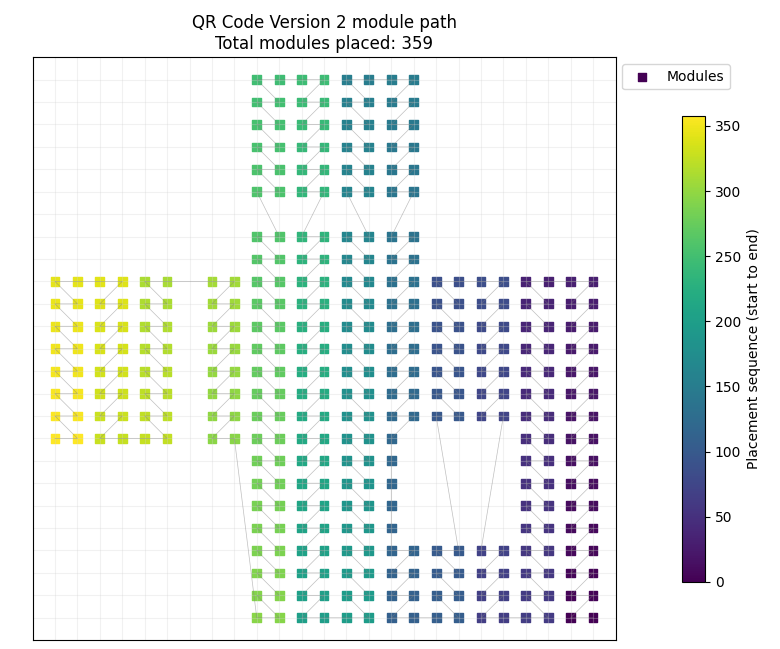
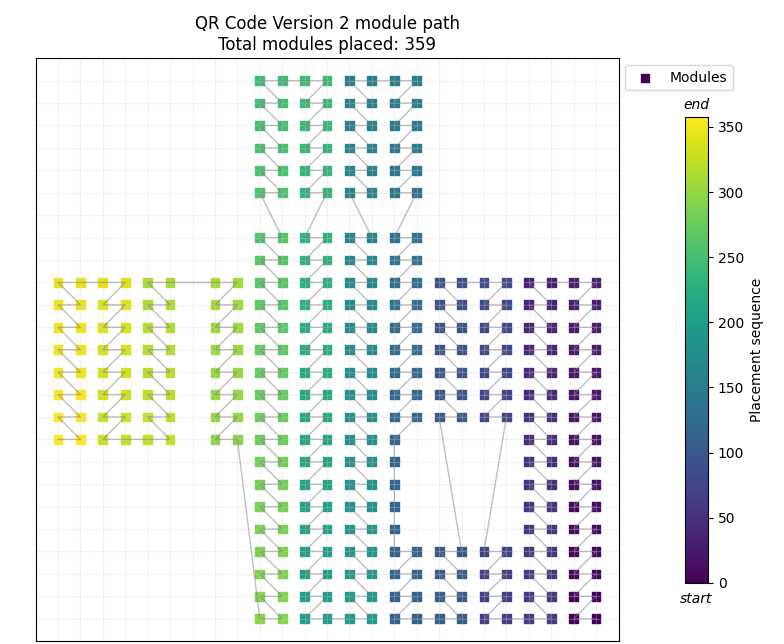
Improve path visualizer readability

diff --git a/scripts/indexes.py b/scripts/indexes.py
@@ -20,8 +20,12 @@ def visualize_module_path(version: int, indexes: list) -> None:
   sequence_numbers = list(range(len(indexes)))
   sc = plt.scatter(x_coords, y_coords, c=sequence_numbers, cmap='viridis', 
                    s=40, marker='s', label='Modules')
-  plt.colorbar(sc, label='Placement sequence (start to end)', shrink=0.8)
-  plt.plot(x_coords, y_coords, color='gray', linewidth=0.5, alpha=0.5)
+  cbar = plt.colorbar(sc, label='Placement sequence', shrink=0.8)
+  cbar.ax.text(0.5, 1.01, 'end', transform=cbar.ax.transAxes,
+              ha='center', va='bottom', fontstyle='italic')
+  cbar.ax.text(0.5, -0.02, 'start', transform=cbar.ax.transAxes,
+              ha='center', va='top', fontstyle='italic')
+  plt.plot(x_coords, y_coords, color='gray', linewidth=1, alpha=0.5)
 
   if dup_indexes:
     plt.scatter(dup_x, dup_y, c='red', s=120, marker='X',
